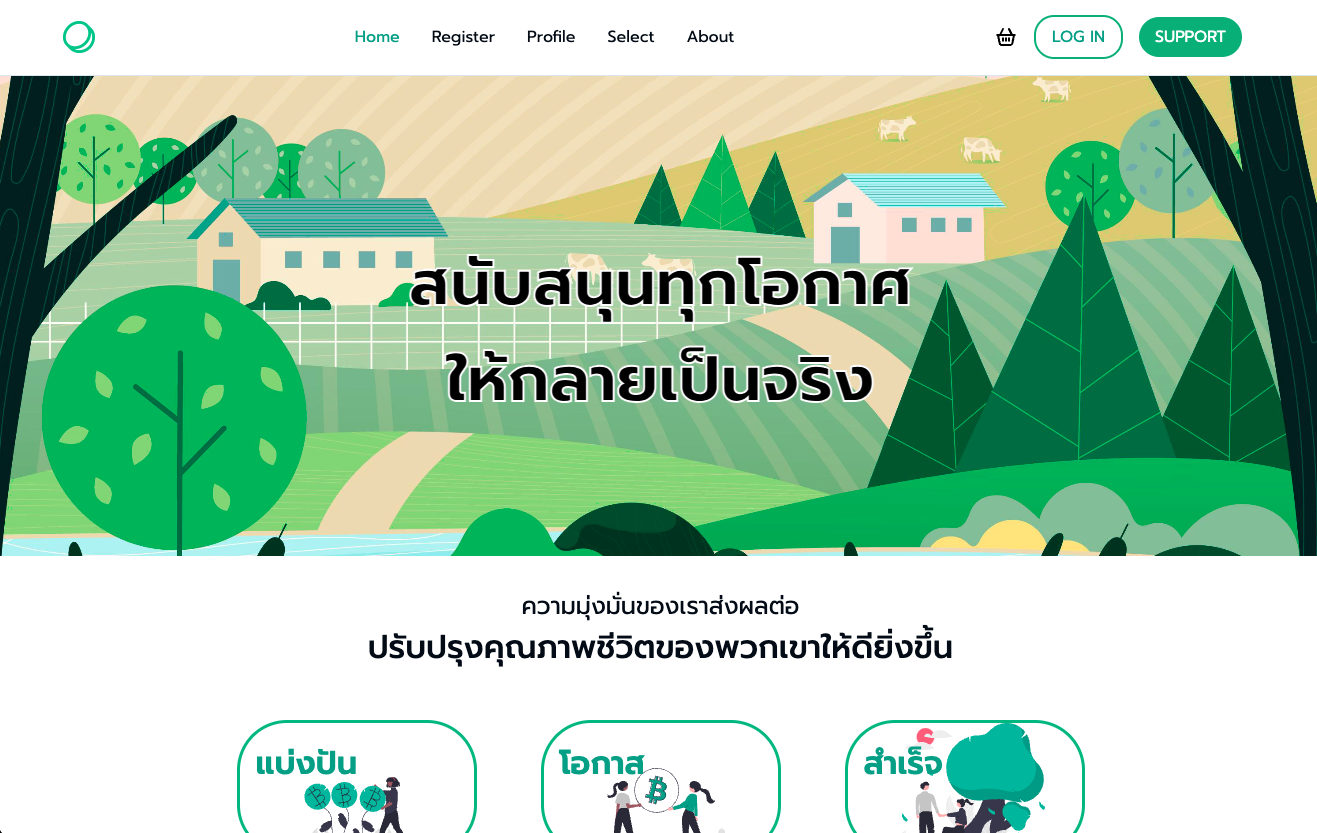
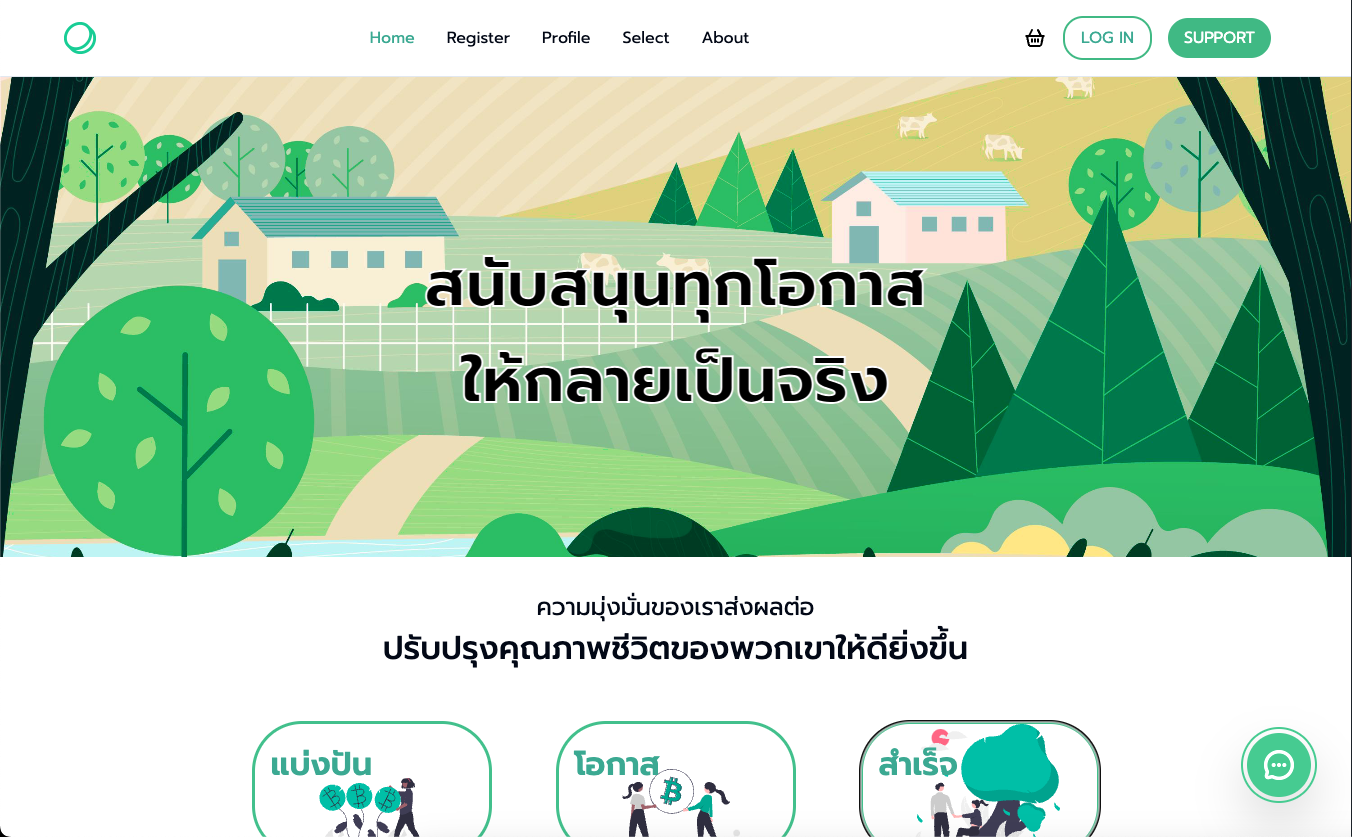
fix error homepage

diff --git a/src/pages/HomePage.jsx b/src/pages/HomePage.jsx
@@ -17,7 +17,7 @@ const items = [
     subtitle:
       "คนที่กำลังสร้างครอบครัวมักจะเจริญทางส่วนตัวและรู้สึกมีความสำเร็จในชีวิตมากขึ้น เนื่องจากมีความรับผิดชอบที่ต้องดูแลกันและให้ความรักกันอย่างไม่มีเงื่อนไข นอกจากนี้ยังเป็นโอกาสที่จะเรียนรู้และเติบโตด้วยกันในทุกเรื่อง การสร้างครอบครัวยังเป็นหนทางสำคัญที่จะสร้างความสัมพันธ์และความผูกพันที่แข็งแรงซึ่งสามารถเป็นกำลังใจในชีวิตของแต่ละคนได้ในทุกสถานการณ์",
     icon: familyIcon,
-    iconWidth: "8rem",
+    iconWidth: "w-[8rem]",
   },
   {
     id: "working",
@@ -25,7 +25,7 @@ const items = [
     subtitle:
       "ความทุ่มเทในงาน และความก้าวหน้าที่เขาได้ทำไปในสายอาชีพของเขาได้ บุคคลแบบนี้มักมีความจุของความรู้และทักษะที่ต้องการสำหรับงานที่เขาทำ นอกจากนี้ยังมีความตั้งใจที่จะพัฒนาตัวเองให้ดียิ่งขึ้นอีกด้วย",
     icon: peopleIcon,
-    iconWidth: "11rem",
+    iconWidth: "w-[12rem]",
   },
   {
     id: "growing",
@@ -33,7 +33,7 @@ const items = [
     subtitle:
       "กระบวนการเรียนรู้และการเจริญเติบโตทั้งทางทักษะและการเชื่อมโยงทางสังคม นักศึกษามักมีโอกาสที่จะพบเจอความท้าทายในการเรียนการสอนและการเผชิญหน้ากับชีวิตจริง การเป็นนักศึกษายังเป็นช่วงเวลาที่สำคัญในการสร้างเป้าหมายและฝันให้เป็นจริง เขียนถึงความมุ่งมั่นในการเรียนรู้ การจัดการเวลา และการพัฒนาทักษะที่จะเป็นประโยชน์ในอนาคต",
     icon: growIcon,
-    iconWidth: "9rem",
+    iconWidth: "w-[9rem]",
   },
 ];
 
@@ -168,7 +168,7 @@ function HomePage() {
             >
               <div className="h-[8rem] flex justify-center items-end bg-gray-100 rounded-[50px_50px_0_0]">
                 <img
-                  className={`w-[${item.iconWidth}]`}
+                  className={`${item.iconWidth}`}
                   src={item.icon}
                   alt={item.id}
                 />
@@ -205,7 +205,7 @@ function HomePage() {
                       >
                         <div className="h-[15rem] w-full flex justify-center items-end bg-gray-100 rounded-[50px_50px_0_0]">
                           <img
-                            className={`w-[${item.iconWidth}]`}
+                            className={`w-[14rem]`}
                             src={item.icon}
                             alt={item.id}
                           />

diff --git a/src/components/CatagoryBar.jsx b/src/components/CatagoryBar.jsx
@@ -4,15 +4,18 @@ import { useSearchData } from "../utils/serviceAPI/searchServices";
 function CatagoryBar() {
   const searchInfo = useSearchData((state) => state.searchInfo);
 
+  if (!searchInfo || !searchInfo.categories) {
+    return <div>Loading...</div>;
+  } 
+  console.log(searchInfo.categories); 
+
   return (
     <div className="flex justify-center gap-7 my-4">
       {searchInfo.categories.map((items) => (
-        <>
-          <div className="flex flex-col items-center">
+          <div key={items.id} className="flex flex-col items-center">
             <div className="w-12 h-12 bg-slate-300"></div>
             <div className="text-xl cursor-pointer">{items.categorie_name}</div>
           </div>
-        </>
       ))}
     </div>
   );

diff --git a/README.md b/README.md
@@ -1,8 +1,9 @@
 # O2O Project  
 
-![Screenshot](./src/assets/images/screenshot/Screenshot01.png)
-
+peer-to-peer lending platform  
 Still working on  
+
+![Screenshot](./src/assets/images/screenshot/Screenshot01.png)
 
 - [frontend](https://github.com/chaithawat21/o2o-frontend)  
 - [backend](https://github.com/chaithawat21/o2o-backend)  
